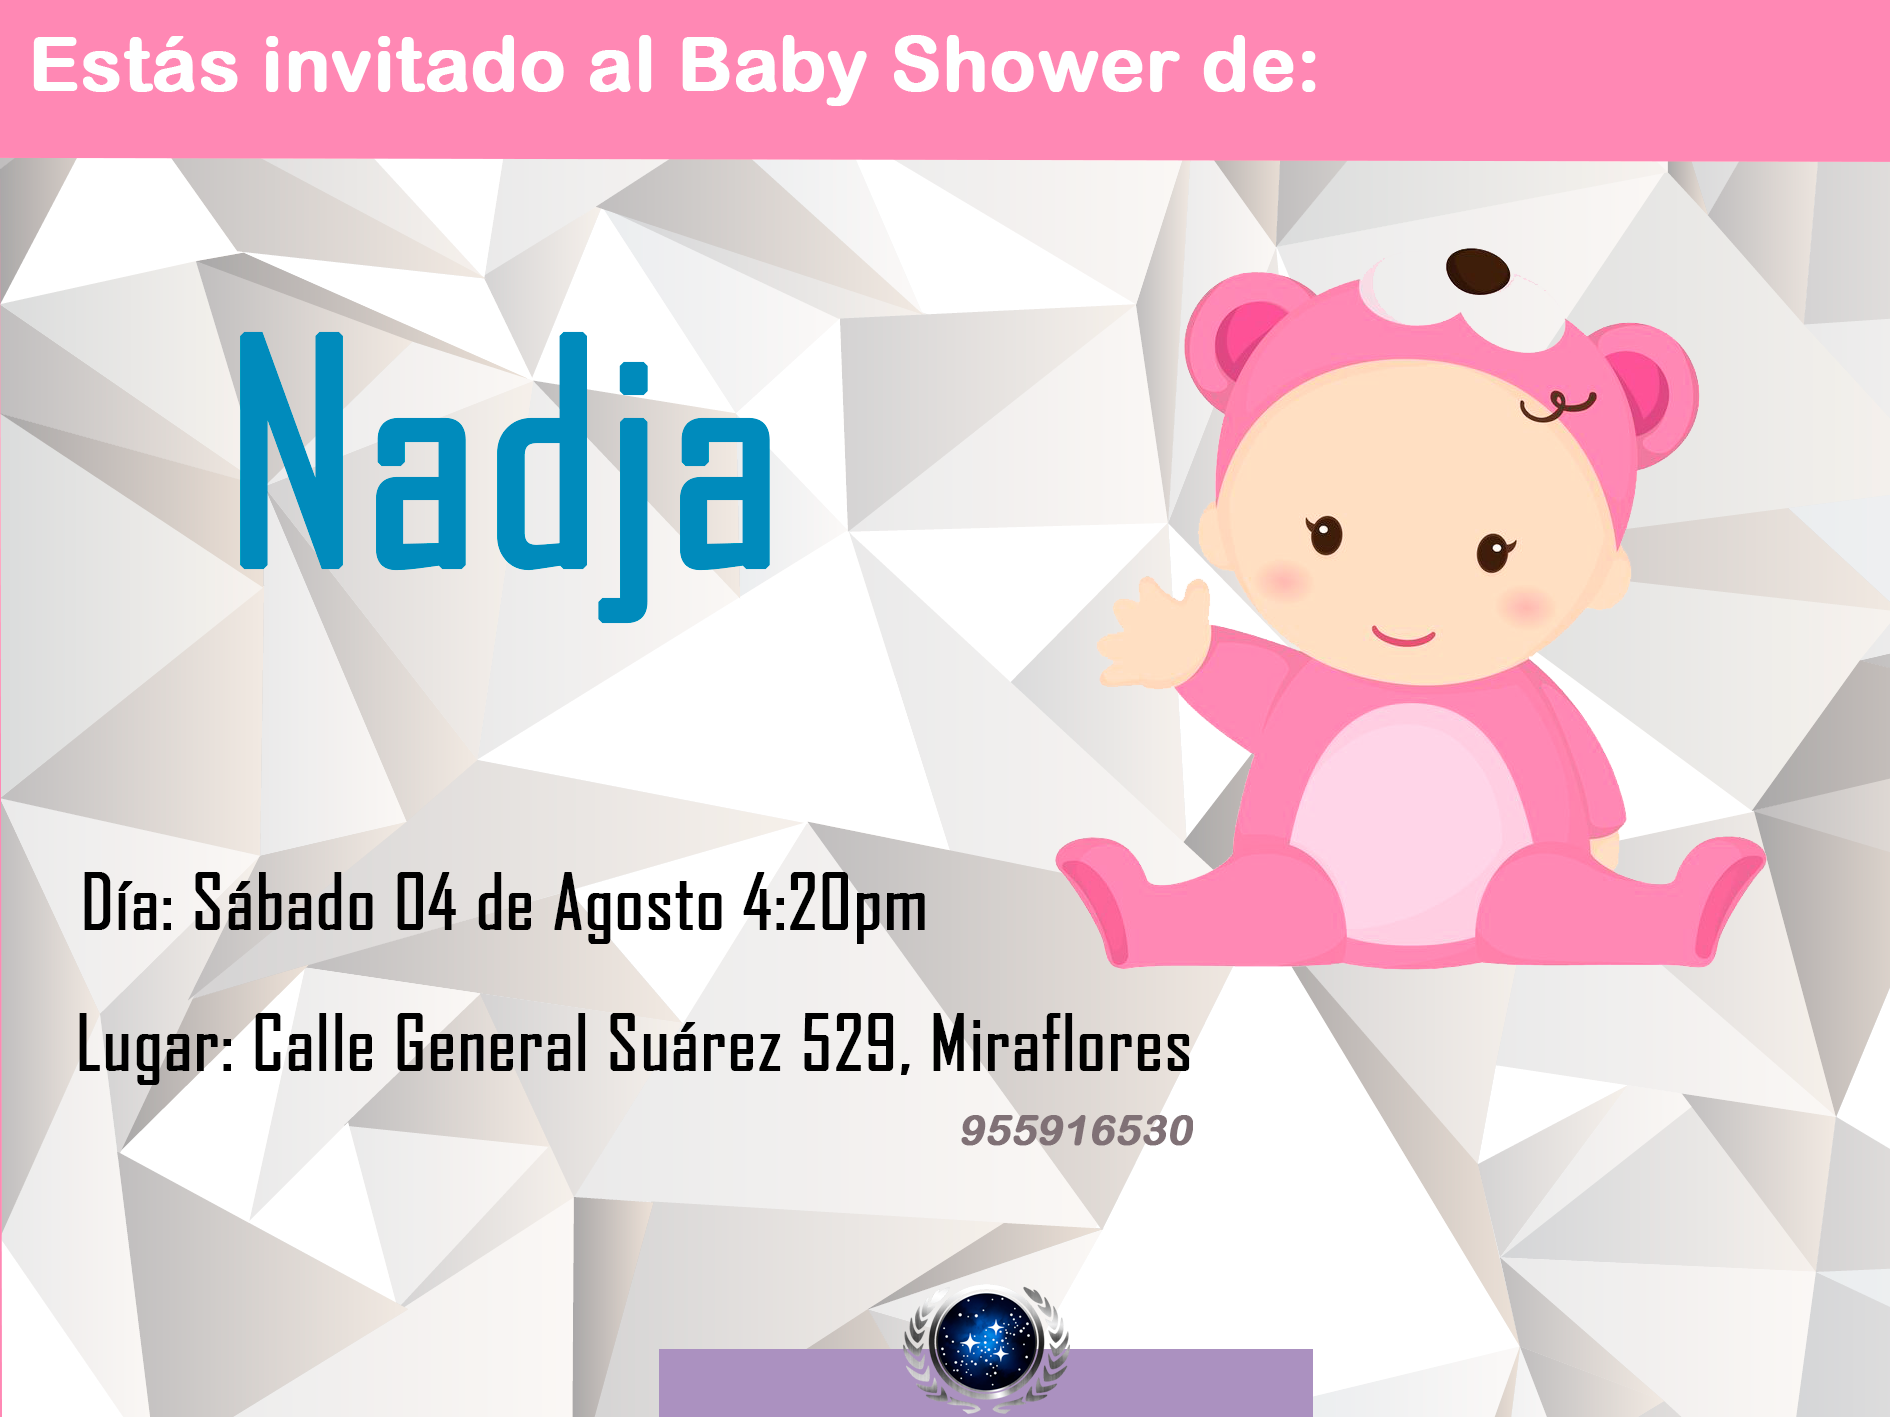
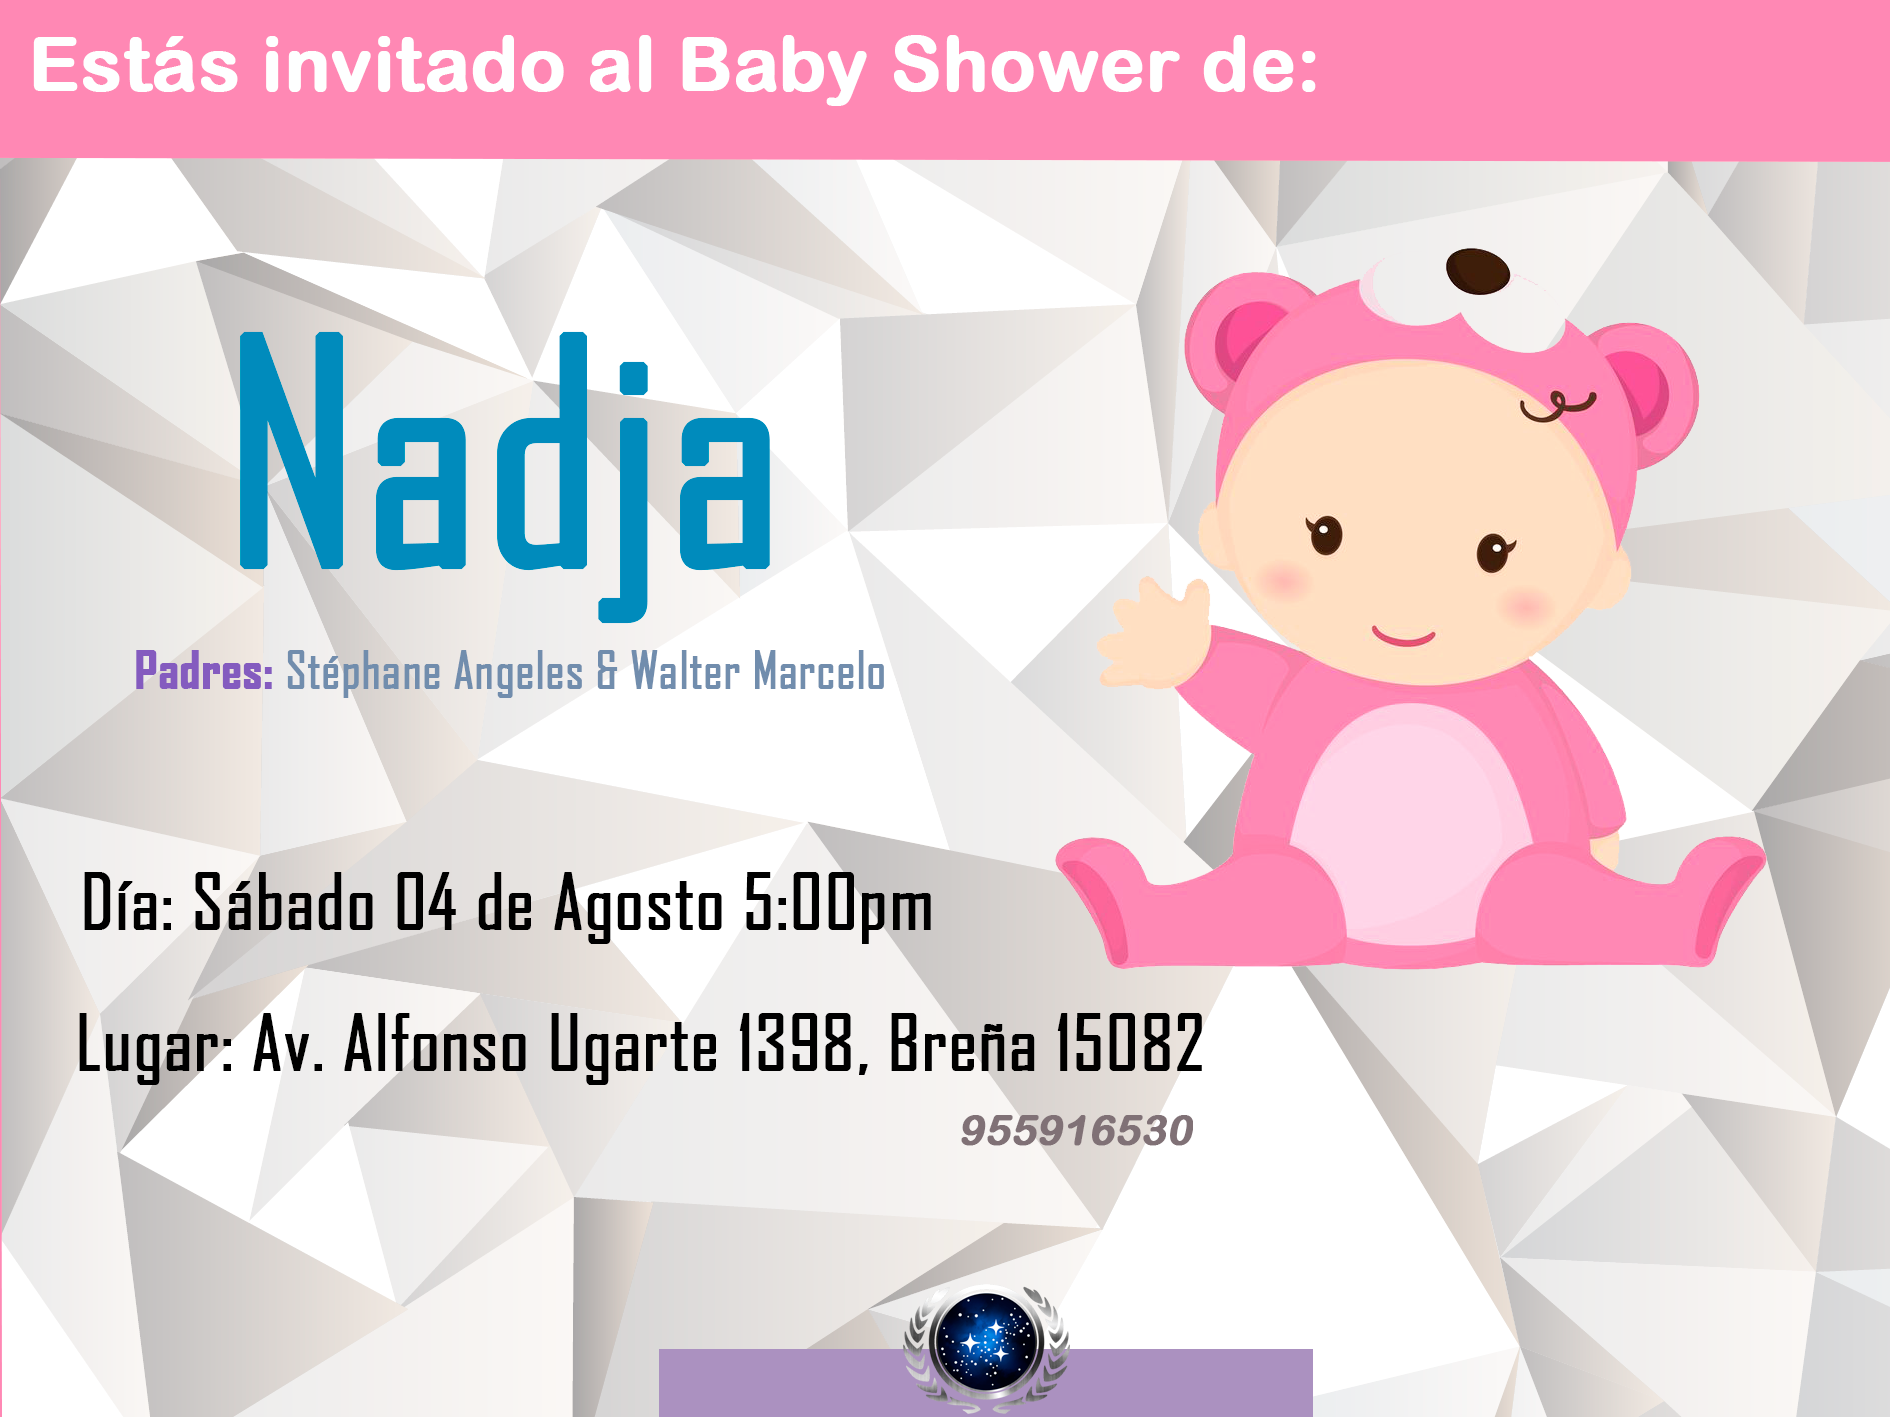
Many tiny changes and "cómo llegar" section added.

Changed region(s): [[0.1249, 0.7142, 0.6556, 0.7763], [0.0624, 0.4658, 0.4683, 0.4968], [0.3746, 0.621, 0.4995, 0.6831]]

diff --git a/index.html b/index.html
@@ -83,11 +83,18 @@
                             <li class="list-group-item">Kris Rosillo +1 <span class="badge">Familia Madre</span></li>
                             <li class="list-group-item">Alexander Gutierrez +1 <span class="badge">Familia Madre</span></li>
                             <li class="list-group-item">Alexandra Gutierrez <span class="badge">Familia Madre</span></li>
+                            <li class="list-group-item">Tomás Padilla +1 <span class="badge">Familia Madre</span></li>
+                            <li class="list-group-item">Lesly Gadea <span class="badge">Familia Madre</span></li>
+                            <li class="list-group-item">Lizeth Gadea +1 <span class="badge">Familia Madre</span></li>
+                            <li class="list-group-item">Jhan Gadea <span class="badge">Familia Madre</span></li>
+                            <li class="list-group-item">Tito Gadea +1 <span class="badge">Familia Madre</span></li>
+                            <li class="list-group-item">Gloricela Acosta +3 <span class="badge">Familia Madre</span></li>
+                            <li class="list-group-item">Belmira Hidalgo +1 <span class="badge">Familia Madre</span></li>
                             <li class="list-group-item active">Walter Marcelo <span class="badge">Familia Padre</span></li>
                             <li class="list-group-item active">Frida Leonardo <span class="badge">Familia Padre</span></li>
                             <li class="list-group-item">Mary Marcelo <span class="badge">Familia Padre</span></li>
                             <li class="list-group-item">Manuel Carrillo <span class="badge">Familia Padre</span></li>
-                            <li class="list-group-item">Juan Manuel Carrillo <span class="badge">Familia Padre</span></li>
+                            <li class="list-group-item">Juan Manuel Carrillo +1 <span class="badge">Familia Padre</span></li>
                             <li class="list-group-item">Marita Carrillo <span class="badge">Familia Padre</span></li>
                             <li class="list-group-item">Roxana Leonardo <span class="badge">Familia Padre</span></li>
                             <li class="list-group-item active">Jorge Segovia <span class="badge">Trabajo</span></li>
@@ -101,7 +108,7 @@
                             <li class="list-group-item">Fiorella Concha +1 <span class="badge">Trabajo</span></li>
                             <li class="list-group-item">Johanna Coronado <span class="badge">Trabajo</span></li>
                             <li class="list-group-item">Marco Ortiz +1 <span class="badge">Trabajo</span></li>
-                            <li class="list-group-item">Carlos López +1<span class="badge">Trabajo</span></li>
+                            <li class="list-group-item">Carlos López +1 <span class="badge">Trabajo</span></li>
                         </ul>
                     </div>
                     <div class="col-sm-6">
@@ -145,9 +152,9 @@
                 </div>
             </div>
         </div>
-        <h1 class="hora">4:20pm</h1>
+        <h1 class="hora">5:00pm</h1>
 
-        <p><em>Disclaimer:</em> Acaba temprano. Pasemos una bonita tarde. <ins>Llegar Puntual</ins>. Cena no incluida, Baby Shower solo abarca la tarde <i class="fas fa-child" style="color: lightcoral"></i></p>
+        <p><em>Disclaimer:</em> Termina a las 10pm. Cena incluida, cuenta con presentación respetuosa de actividades diseñada por actores profesionales, graduados de la UNMSM. <ins>Llegar Puntual</ins>. <i class="fas fa-child" style="color: lightcoral"></i></p>
 
         <div class="row">
             <div class="col-sm-12">
@@ -156,18 +163,21 @@
                         
                         <h3 style="margin-top: 1.5em;">Lugar de Celebración:</h3>
                         <i class="fas fa-map" style="color: #F487B1;"></i>
-                        <h4>Calle general Suárez 529, Miraflores</h4>
+                        <h4>Asociación Guadalupana. Avenida Alfonso Ugarte 1398, Breña 15082</h4>
                         <div class="mapouter">
                             <div class="gmap_canvas">
-                                <iframe width="90%" height="300" id="gmap_canvas" src="https://maps.google.com/maps?q=Calle general Suárez 529&t=&z=13&ie=UTF8&iwloc=&output=embed" frameborder="0" scrolling="no"></iframe>
+                                <iframe width="90%" height="300" id="gmap_canvas" src="https://www.google.com/maps/embed?pb=!1m18!1m12!1m3!1d1950.8986668388416!2d-77.04194055803453!3d-12.057460954899238!2m3!1f0!2f0!3f0!3m2!1i1024!2i768!4f13.1!3m3!1m2!1s0x9105c8c47fed6371%3A0xd0d9a4fdf6184b4d!2sAvenida+Alfonso+Ugarte+1398%2C+Bre%C3%B1a+15082%2C+Per%C3%BA!5e0!3m2!1ses!2sus!4v1530460662292" frameborder="0" scrolling="no" style="border:0" allowfullscreen></iframe>
                             </div>
                             <style>.mapouter{width:"90%"}.gmap_canvas {overflow:hidden;background:none!important;width:"90%"}</style>
                         </div>
                         
                         <h3 style="margin-top: 1.5em;">¿Cómo llegar?</h3>
-                        <i class="fas fa-map-signs" style="color:#F487B1;"></i>
-                        <!--Alex va a tomar foto desde la ruta del metropolitano y me mandará-->
-                        <span></span>
+                        <i class="fas fa-map-signs" style="color:#F487B1;"></i></br>
+                        <span>Bajar en la estación <ins>España</ins> del Metropolitano. Cruzar. (El local se encuentra al frente)</span></br>
+
+                        <div class="text-center center-block">
+                            <img style="max-width: 57%;" src="img/local.jpg" alt="Asociación Guadalupana" />
+                        </div>
                     </div>
                 </div>
                 <br />
@@ -178,6 +188,8 @@
                         <button type="button" class="btn btn-info" style="padding: 15px;">
                             <a href="img/virtual-invitation.png" download style="text-decoration: none;color: white;font-size: 1.5em;">Obtener Tarjeta</a>
                         </button>
+                        <br/>
+                        <span style="font-size: 0.7em; color: #F487B1;"><em>* Compatible con Google Chrome</em></span>
                     </div>
                 </div>
             </div>
